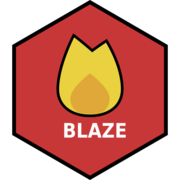
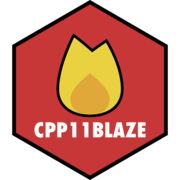
correct hexicon

Changed region(s): [[0.1667, 0.6667, 0.8333, 0.7778]]

diff --git a/docs/reference/cpp_vendor.html b/docs/reference/cpp_vendor.html
@@ -101,7 +101,7 @@ available for your code until you run `cpp_vendor()` again.</p>
     <div class="sourceCode"><pre class="sourceCode r"><code><span class="r-in"><span><span class="co"># create a new directory</span></span></span>
 <span class="r-in"><span><span class="va">dir</span> <span class="op">&lt;-</span> <span class="fu"><a href="https://rdrr.io/r/base/tempfile.html" class="external-link">tempdir</a></span><span class="op">(</span><span class="op">)</span></span></span>
 <span class="r-in"><span><span class="fu"><a href="https://rdrr.io/r/base/files2.html" class="external-link">dir.create</a></span><span class="op">(</span><span class="va">dir</span><span class="op">)</span></span></span>
-<span class="r-wrn co"><span class="r-pr">#&gt;</span> <span class="warning">Warning: </span>'/tmp/Rtmp3uFysN' already exists</span>
+<span class="r-wrn co"><span class="r-pr">#&gt;</span> <span class="warning">Warning: </span>'/tmp/RtmpN0DBzU' already exists</span>
 <span class="r-in"><span></span></span>
 <span class="r-in"><span><span class="co"># vendor the cpp11 headers into the directory</span></span></span>
 <span class="r-in"><span><span class="fu">cpp_vendor</span><span class="op">(</span><span class="va">dir</span><span class="op">)</span></span></span>

diff --git a/docs/reference/pkg_template.html b/docs/reference/pkg_template.html
@@ -88,7 +88,7 @@
     <div class="sourceCode"><pre class="sourceCode r"><code><span class="r-in"><span><span class="co"># create a new directory</span></span></span>
 <span class="r-in"><span><span class="va">dir</span> <span class="op">&lt;-</span> <span class="fu"><a href="https://rdrr.io/r/base/tempfile.html" class="external-link">tempdir</a></span><span class="op">(</span><span class="op">)</span></span></span>
 <span class="r-in"><span><span class="fu"><a href="https://rdrr.io/r/base/files2.html" class="external-link">dir.create</a></span><span class="op">(</span><span class="va">dir</span><span class="op">)</span></span></span>
-<span class="r-wrn co"><span class="r-pr">#&gt;</span> <span class="warning">Warning: </span>'/tmp/Rtmp3uFysN' already exists</span>
+<span class="r-wrn co"><span class="r-pr">#&gt;</span> <span class="warning">Warning: </span>'/tmp/RtmpN0DBzU' already exists</span>
 <span class="r-in"><span></span></span>
 <span class="r-in"><span><span class="co"># copy the package template into the directory</span></span></span>
 <span class="r-in"><span><span class="fu">pkg_template</span><span class="op">(</span><span class="va">dir</span>, <span class="st">"mynewpkg"</span><span class="op">)</span></span></span>
